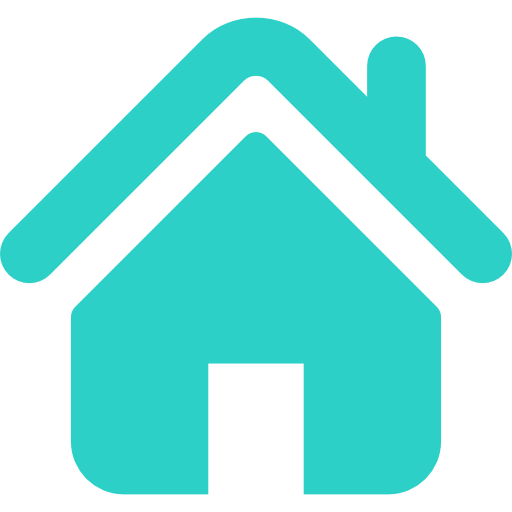
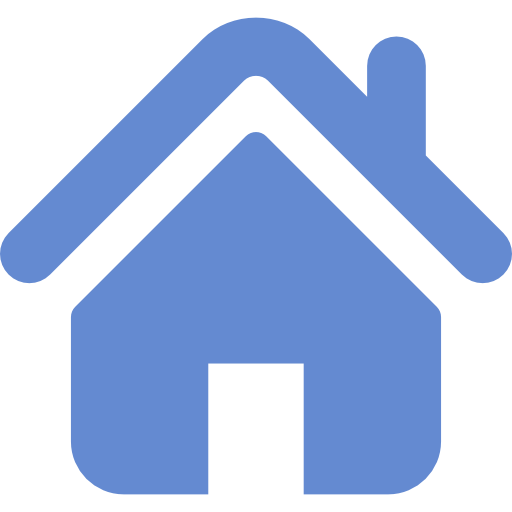
final final

diff --git a/css/navbar.css b/css/navbar.css
@@ -1,149 +1,4 @@
-/*
-we wanted to do this however it might not be used\
-WARNING: DEPRICATED
-*/
 
-@media only screen and (max-width: 1085px) {
-	#navbar-container #menu-bar #last-menu {
-		float:left;
-		margin-left: -8em;
-		display:inline-block;
-		visibility: hidden;
-	}
-
-	#navbar-container #menu-bar {
-		float:left;
-		display:inline-block;
-	}
-
-	#navbar-container {
-		color: black;
-		min-width: 250px;
-		width: 100%;
-		max-height: 69px;
-	}
-
-	#navbar-container #navbar-background{
-		min-width: 250px;
-		width: 100%;
-		max-height: 69px;
-	}
-
-	#navbar-container, #menu-bar ul{
-		list-style-type: none;
-
-	}
-
-	#navbar-container #menu-bar li {
-		float:left;
-		margin-top:0.7em;
-		display:inline-block;
-	}
-
-
-	#navbar-container #logo {
-		float:left;
-		font-size: 1.5em;
-		padding: none;
-	}
-
-	#navbar-container .selectedMenu {
-		color: #456990;
-	}
-
-	#navbar-container .w3-button:hover {
-		text-decoration: none;
-	}
-	#navbar-container .action-button {
-		width:auto;
-		border-radius: 2em;
-		border: black solid 2px;
-		margin-right: 1.5em;
-	}
-
-}
-
-/*
-we wanted to do this however it might not be used\
-WARNING: DEPRICATED
-*/
-@media only screen and (max-width: 940px) {
-
-	#navbar-container #menu-bar #forth-menu
-	{
-		float:left;
-		margin-left: -7em;
-		display:inline-block;
-		visibility: hidden;
-	}
-
-	#navbar-container #menu-bar #last-menu {
-		float:left;
-		margin-left: -10em;
-		display:inline-block;
-	}
-
-	#navbar-container #menu-bar {
-		float:left;
-		margin-right: 7em;
-		display:inline-block;
-
-	}
-
-	#navbar-container #menu-bar li{
-		display:inline-block;
-		margin-top: -69px;
-	}
-
-
-	#navbar-container {
-		color: black;
-		min-width: 250px;
-		width: 100%;
-		max-height: 69px;
-	}
-
-	#navbar-container #navbar-background{
-		min-width: 250px;
-		width: 100%;
-		max-height: 69px;
-	}
-
-	#navbar-container, #menu-bar ul{
-		list-style-type: none;
-
-	}
-
-	#navbar-container #menu-bar {
-		margin-right: 1.5em;
-		float:right;
-	}
-
-
-	#navbar-container #logo {
-		float:left;
-		font-size: 1.5em;
-		padding: none;
-	}
-
-	#navbar-container .selectedMenu {
-		color: #456990;
-	}
-
-	#navbar-container .w3-button:hover {
-		text-decoration: none;
-	}
-	#navbar-container .action-button {
-		width:auto;
-		border-radius: 2em;
-		border: black solid 2px;
-		margin-right: 1.5em;
-	}
-}
-
-/*
-Good stuff mmmmm
-*/
 
 #navbar-container {
 	color: black;
@@ -182,7 +37,8 @@ Good stuff mmmmm
 }
 
 #navbar-container .selectedMenu {
-	color: #456990;
+	color: white;
+	font-weight:bolder;
 }
 
 #navbar-container #last-menu {
@@ -197,4 +53,8 @@ Good stuff mmmmm
 	border-radius: 2em;
 	border: black solid 2px;
 	margin-right: 1.5em;
+}
+
+#navbar-container .fa-search {
+	color:white;
 }

diff --git a/js/homeNavBar.js b/js/homeNavBar.js
@@ -2,11 +2,13 @@
 var body = 0 ;
 var NavBarthing = 0;
 var userName = 0;
+var selectedMenuButton = 0;
 var actionButtons;
 function registerBody() {
     body = document.getElementsByTagName("body")[0];
     NavBarthing = document.getElementById("navbar-background");
     userName = document.getElementById("user-name-id");
+    selectedMenuButton = document.getElementsByClassName("selectedMenu")[0];
     actionButtons = document.getElementsByClassName("action-button");
 
     NavBarthing.style.borderWidth = '0';
@@ -15,6 +17,8 @@ function registerBody() {
 }
 
 function colorBlack() {
+  if(selectedMenuButton)
+    selectedMenuButton.style.color = "#648ad1";
 	NavBarthing.style.backgroundColor = "black";
     NavBarthing.style.opacity = "0.99";
     NavBarthing.style.color = "white";
@@ -36,6 +40,9 @@ function update() {
         if(userName) {
           userName.style.color = "white";
         }
+        if(selectedMenuButton) {
+          selectedMenuButton.style.color= "#648ad1";
+        }
 
     	NavBarthing.style.borderWidth = '0';
        	for(var count =0; count < actionButtons.length; count++) {
@@ -46,6 +53,9 @@ function update() {
       NavBarthing.style.color = "black";
       if(userName){
         userName.style.color = "black";
+      }
+      if(selectedMenuButton) {
+        selectedMenuButton.style.color = "white";
       }
     	NavBarthing.style.borderWidth = '0';
 

diff --git a/template/login-non-index.html b/template/login-non-index.html
@@ -10,7 +10,7 @@
             <input type="email" placeholder="Enter Email" name="userEmail" required>
             <label><b>Password</b></label>
             <input type="password" placeholder="Enter Password" name="userPassword" required>
-            <button type="submit" style="background-color: #456990; border-radius: 2em;">Login</button>
+            <button type="submit" style="background-color: #456990; ">Login</button>
             <br>
             <button type="button" onclick="document.getElementById('id01').style.display='none'" class="cancelbtn">Cancel</button>
 

diff --git a/template/login.html b/template/login.html
@@ -10,7 +10,7 @@
             <input type="email" placeholder="Enter Email" name="userEmail" required>
             <label><b>Password</b></label>
             <input type="password" placeholder="Enter Password" name="userPassword" required>
-            <button type="submit" style="background-color: #456990; border-radius: 2em;">Login</button>
+            <button type="submit" style="background-color: #456990; ">Login</button>
             <br>
             <button type="button" onclick="document.getElementById('id01').style.display='none'" class="cancelbtn">Cancel</button>
 

diff --git a/css/loginPop.css b/css/loginPop.css
@@ -117,7 +117,7 @@
     margin: 5% auto 15% auto;
     /* 5% from the top, 15% from the bottom and centered */
     border: 1px solid #888;
-    width: 80%;
+    width: 50%;
     /* Could be more or less, depending on screen size */
 }
 /* The Close Button (x) */
@@ -176,9 +176,8 @@
 .modal .signupbtn {
     float:right;
     width: auto;
-    background-color: #2dd0c6;
+    background-color: #f44336;
     color: white;
     padding: 10px 18px;
     cursor: hand;
-    border-radius: 2em;
 }

diff --git a/css/forum.css b/css/forum.css
@@ -155,7 +155,6 @@ body{
 	vertical-align: middle;
 	text-align: center;
 	margin-left: 7px;
-	margin-top: 2.5em;
 }
 
 .forum-main div.post-text {
@@ -186,7 +185,7 @@ body{
 	list-style-type: none;
 	font-size: 0.7em;
 	color: white;
-	background-color: black;
+	background-color: #648ad1;
 	display:inline-block;
 	border-radius: 2em;
 	padding: 0em 1em;
@@ -231,4 +230,8 @@ body{
 
 .forum-main .documents {
 	margin-top: 0.2em;
+}
+
+.forum-main .glyphicon-comment {
+	color: #648ad1;
 }

diff --git a/template/register-non-index.html b/template/register-non-index.html
@@ -17,7 +17,7 @@
             <label><b>Password</b></label>
             <input type="password" placeholder="Enter password" name="userPassword" required>
 
-            <button type="submit" style="background-color: #456990; border-radius: 2em;">Register</button>
+            <button type="submit" style="background-color: #456990;">Register</button>
            
         </div>
         <div class="modal-container" style="background-color:#f1f1f1">

diff --git a/template/register.html b/template/register.html
@@ -17,7 +17,7 @@
             <label><b>Password</b></label>
             <input type="password" placeholder="Enter password" name="userPassword" required>
 
-            <button type="submit" style="background-color: #456990; border-radius: 2em;">Register</button>
+            <button type="submit" style="background-color: #456990;">Register</button>
            
         </div>
         <div class="modal-container" style="background-color:#f1f1f1">

diff --git a/template/includes.html b/template/includes.html
@@ -13,6 +13,7 @@
 <link rel="stylesheet" href="https://cdnjs.cloudflare.com/ajax/libs/font-awesome/4.7.0/css/font-awesome.min.css">
 <link rel="stylesheet" type="text/css" href="./css/normalize.css" />
 <link rel="stylesheet" type="text/css" href="./css/demo.css" />
+<link rel="stylesheet" type="text/css" href="./css/jquery.tagit.css"/>
 
 <!-- me -->
 <link rel="stylesheet" href="./css/home.css">

diff --git a/template/includes-non-index.html b/template/includes-non-index.html
@@ -15,6 +15,7 @@
 <link rel="stylesheet" type="text/css" href="../css/demo.css" />
 <link rel="stylesheet" type="text/css" href="../css/jquery.tagit.css"/>
 <link rel="stylesheet" href="//code.jquery.com/ui/1.12.1/themes/base/jquery-ui.css">
+<link rel="stylesheet" type="text/css" href="../css/jquery.tagit.css"/>
 
 
 <!-- me -->

diff --git a/css/home.css b/css/home.css
@@ -9,7 +9,7 @@
 		width: 100%;
 		margin-top: -20px;
 		height: 27em;
-		background-color: #2dd0c6;
+		background-color: #648ad1;
 	}
 
 	.newStyle {

diff --git a/index.php b/index.php
@@ -17,17 +17,10 @@ include  "php/functions.php";
 
 	<!-- big screen -->
 	<div id="splashScreen">
-		<img src="https://storage.moqups.com/repo/iNXjFx1a/images/iPCgz6naJD.png" id="imgSplashScreen">
-
 		<h2 id="slogan"> Built for Refugees and Asylum Seekers </h2>
 
 		<h4 id="subSlogan"> Get the answers you need in a simple and efficient way </h4>
 
-	</div>
-
-	<!-- phone in hand -->
-	<div >
-		<img class="width100" src="images/phoneInHand.png">
 	</div>
 
 	<!-- Login -->
@@ -53,29 +46,30 @@ include  "php/functions.php";
 			<div class="w3-row w3-padding-32">
 
 				<div class="row">
+					<a href="tagPages.php?tagID=1">
 					<div class="col-sm-4 floatLeft width33">
-						<p class="centerText">Housing</p>
 						<img class="pic" src="images/home.png" alt="Random Name">
 						<svg height="100" width="100">
-							<circle cx="50" cy="50" r="40" stroke="white" stroke-width="2" fill="#7595cd" />
+							<circle cx="50" cy="50" r="40" stroke="white" stroke-width="2" fill="#648ad1" />
 						</svg>
-					</div>
+					</div> </a>
 
+
+					<a href="tagPages.php?tagID=2">
 					<div class="col-sm-4 floatLeft width33">
-						<p class="centerText"="text-align: center">Health Care</p>
 						<img class="pic" src="images/kit.png" alt="Random Name">
 						<svg height="100" width="100">
-							<circle cx="50" cy="50" r="41" stroke="white" stroke-width="2" fill="#7595cd" />
+							<circle cx="50" cy="50" r="41" stroke="white" stroke-width="2" fill="#648ad1" />
 						</svg>
-					</div>
+					</div></a>
 
+					<a href="tagPages.php?tagID=3">
 					<div class="col-sm-4 floatRight width33">
-						<p class="centerText"="text-align: center">Education</p>
 						<img class="pic" src="images/books.png" alt="Random Name">
 						<svg height="100" width="100">
-							<circle cx="50" cy="50" r="40" stroke="white" stroke-width="2" fill="#7595cd" />
+							<circle cx="50" cy="50" r="40" stroke="white" stroke-width="2" fill="#648ad1" />
 						</svg>
-					</div>
+					</div></a>
 
 				</div>
 			</div>
